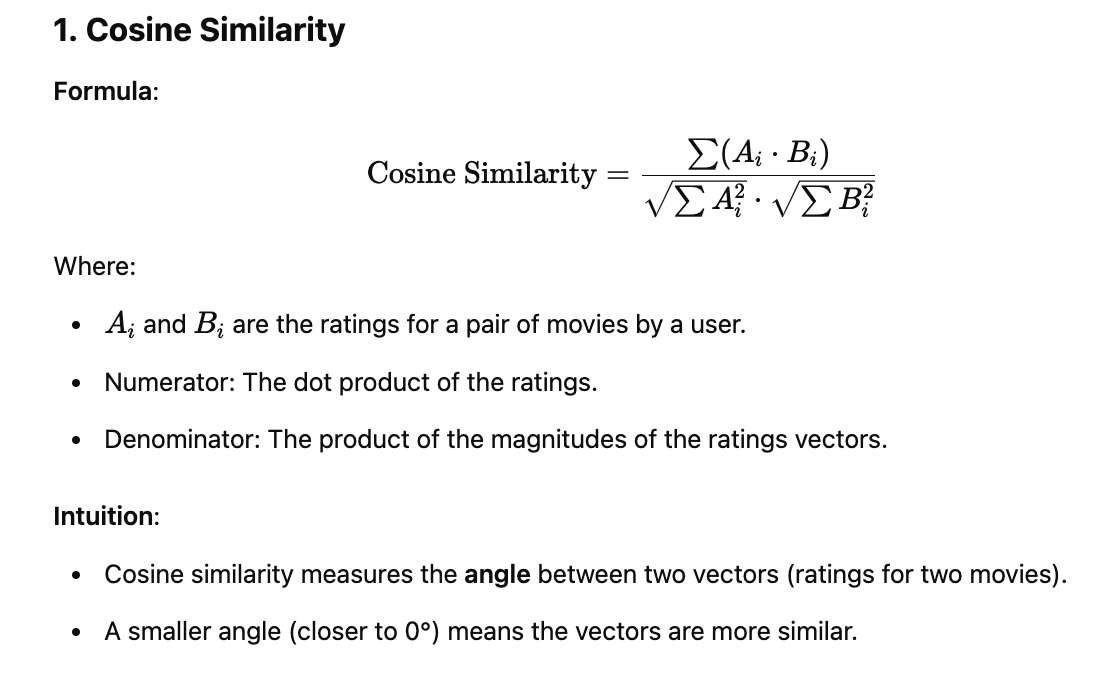
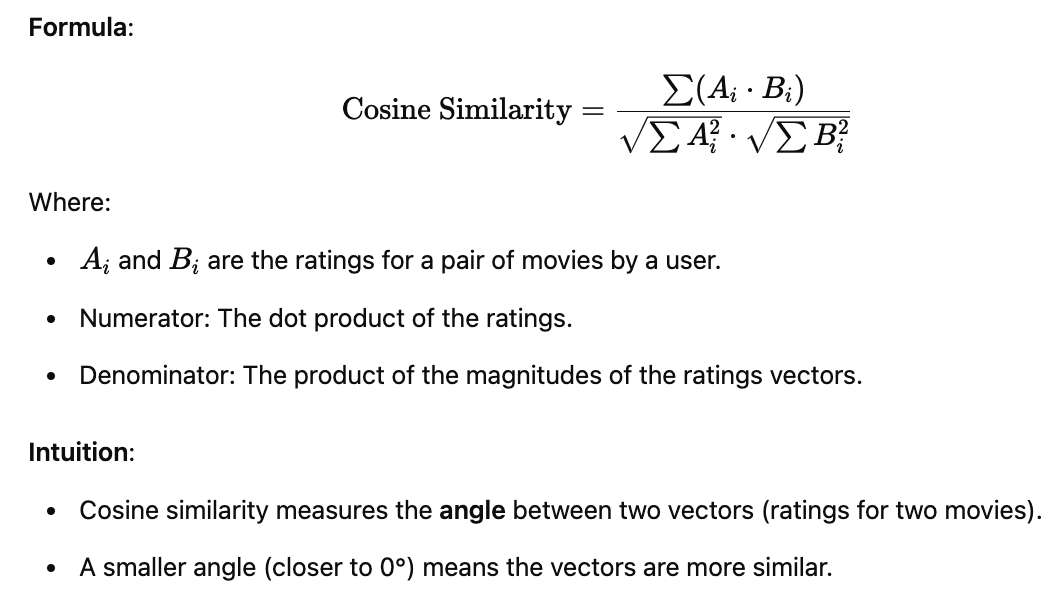
chore: Make screenshots smaller

diff --git a/recommendation_algorithms/README.md b/recommendation_algorithms/README.md
@@ -12,18 +12,19 @@ python -m recommendation_algorithms.movies_pearson_similarity 50
 
 #### Theory:
 
-![alt text](../docs/screenshots/pearson_correlation.png)
+<img src="../docs/screenshots/pearson_correlation.png" width="50%">
+
 
 
 Result (first 5) on `scoreThreshold = 0.5` and `numberOfSharedRatings = 100`:
 
-![alt text](../docs/screenshots/pearson_correlation_recommendations_1.png)
+<img src="../docs/screenshots/pearson_correlation_recommendations_1.png" width="70%">
 
 
 #### Execution results
 Result (first 10) on `scoreThreshold = 0.3` and `numberOfSharedRatings = 100`:
 
-![alt text](../docs/screenshots/pearson_correlation_recommendations_2.png)
+<img src="../docs/screenshots/pearson_correlation_recommendations_2.png" width="70%">
 
 #### More theory
 > What does 'scope' mean?
@@ -31,7 +32,8 @@ Result (first 10) on `scoreThreshold = 0.3` and `numberOfSharedRatings = 100`:
 The Pearson Correlation Coefficient (PCC), referred to as the 'score' in the code, is a statistical measure that evaluates the linear relationship between two variables. In the context of movie recommendation system, it measures the relationship between the ratings of two movies by the same group of users.
 
 in formula
-![alt text](../docs/screenshots/pearson_formula.png)
+
+<img src="../docs/screenshots/pearson_formula.png" width="50%">
 
 The numerator captures how much A and B "move together" (covariance), and the denominator normalizes by the standard deviation of both variables.
 
@@ -42,6 +44,7 @@ The Pearson Correlation coefficient is bounded between -1 and 1.
 - A score close to -1 indicates a strong negative correlation, meaning that as the rating for one movie increases, the rating for the other movie decreases in a linear fashion. If two movies have a high negative correlation (e.g., `𝑟 = −0.7`) it means that users who liked one movie generally disliked the other movie.
 - A score of 0 means no linear correlation between the two movies' ratings. It means there is no consistent pattern between the ratings of the two movies across users.
 
+---
 ## Cosine Similarity (Adjusted)
 Best for basic rating comparisons, especially for cases with user-specific rating behavior - there is a normalization.
 
@@ -55,13 +58,13 @@ python -m recommendation_algorithms.movies_adjusted_cosine_similarity 50
 
 `coOccurrenceThreshold = 60` # shared ratings
 
-![alt text](../docs/screenshots/adjusted_cosine_similarity.png)
+<img src="../docs/screenshots/adjusted_cosine_similarity.png" width="70%">
 
 #### Theory
-![alt text](../docs/screenshots/cosine_theory.png)
-![alt text](../docs/screenshots/adjusted_cosine_theory.png)
+<img src="../docs/screenshots/cosine_theory.png" width="50%">
+<img src="../docs/screenshots/adjusted_cosine_theory.png" width="50%">
 
-
+---
 ##  Euclidean Distance
 
 #### Execution script:
@@ -73,8 +76,9 @@ python -m recommendation_algorithms.movies_euclidean_distance 50
 **Results are awful** , not robust enough for movie recommendation tasks.
 
 #### Theory
-![alt text](image.png)
+<img src="../docs/screenshots/euclidean_theory.png" width="50%">
 
+---
 ## Jaccard similarity
 
 #### Execution script:
@@ -89,7 +93,7 @@ python -m recommendation_algorithms.movies_jaccard_similarity 50
 
 `minSharedRatings = 240` (as scope=1 for top resluts, I sorted by shared raitings)
 
-![alt text](../docs/screenshots/jaccard_results_1.png)
+<img src="../docs/screenshots/jaccard_results_1.png" width="70%">
 
 
 `ratingThreshold = 4` (to include only highly-rated movies, but here we lost some good one like Start Trek and The contact)
@@ -97,7 +101,7 @@ python -m recommendation_algorithms.movies_jaccard_similarity 50
 `scoreThreshold = 1` (unfortunately, 1 for all in the result top 10 - Star Wars (1977) is too popular and all other movies in the set too)`
 
 `minSharedRatings = 240` (as scope=1 for top resluts, I sorted by shared raitings)
-![alt text](../docs/screenshots/jaccard_results_2.png)
+<img src="../docs/screenshots/jaccard_results_2.png" width="70%">
 
 #### Theory
-![alt text](../docs/screenshots/jaccard_theory.png)
+<img src="../docs/screenshots/jaccard_theory.png" width="50%">

diff --git a/streaming/README.md b/streaming/README.md
@@ -9,7 +9,7 @@ python streaming/logs_generator.py
 
 This script will generate log files with random data:
 
-![alt text](../docs/screenshots/emitted_log_files.png)
+<img src="../docs/screenshots/emitted_log_files.png" width="50%">
 
 
 #### Catch and parse logs
@@ -21,12 +21,11 @@ python streaming/structured_streaming.py
 
 This script will  calculate percentage of failed attempts to admin panel to spot security breaches:
 
-![alt text](../docs/screenshots/batch_processed.png)
+<img src="../docs/screenshots/batch_processed.png" width="50%">
 
 Script monitors the folder *streaming/logs* and will re-calculate data each time new log file arrives:
 
-![alt text](../docs/screenshots/batches_processed.png)
-
+<img src="../docs/screenshots/batches_processed.png" width="50%">
 
 
 ##### Use Spark structured streaming wit time window to analyze chunks of logs:
@@ -37,11 +36,11 @@ python streaming/structured_streaming_windows.py
 
 This script will  calculate percentage of failed attempts to admin panel to spot security breaches within time windows. 
 
-![alt text](../docs/screenshots/batch_with_window_processed.png)
+<img src="../docs/screenshots/batches_processed.png" width="50%">
 
 It monitors the folder *streaming/logs* and will re-calculate data each time new log file arrives
 
 
-![alt text](../docs/screenshots/batches_with_window_processed.png)
+<img src="../docs/screenshots/batches_with_window_processed.png" width="70%">
 
 

diff --git a/ml/README.md b/ml/README.md
@@ -4,7 +4,7 @@ In this folder I experiment with three machine learning models available in Spar
 
 To calculate error I use `metricName="rmse"`  -  Root Mean Squared Error (RMSE) as the evaluation metric. RMSE measures the average error in predictions and gives more weight to large errors.
 
-![alt text](image.png)
+<img src="image.png" width="70%">
 
 A *lower RMSE* means the model predictions *are closer* to the actual values ( = better model)
 

diff --git a/README.md b/README.md
@@ -1,6 +1,10 @@
-## Spark overview
+## Apache Spark overview
 
-This repository includes my attempts to understand how Apache Spark can be used + math examples and theory
+This repository includes my attempts to understand how Apache Spark can be used + math examples and theory.
+
+**TODOs**
+- add links to download test data
+- rework installation docs
 
 [Install](./docs/Install.md)  <- Basic installations to prepare environment
 

diff --git a/docs/Install.md b/docs/Install.md
@@ -9,8 +9,5 @@ brew install openjdk@17
 brew install scala
 brew install apache-spark
 
-spark-sumbit test_1.py (/usr/local/Cellar/apache-spark/3.5.3/bin/spark-submit test_1.py)
-
-python test_1.py
-
+pip install -r requirements.txt
 ```

diff --git a/SOLVED_ERRORS.md b/SOLVED_ERRORS.md
@@ -31,5 +31,4 @@ Run script:
 python -m dataframe.popular-movies-with_names_dataframe
 ```
 
-![](popular-movies-with_names_dataframe.png)
----
+<img src="./docs/screenshots/image.png" width="70%">
